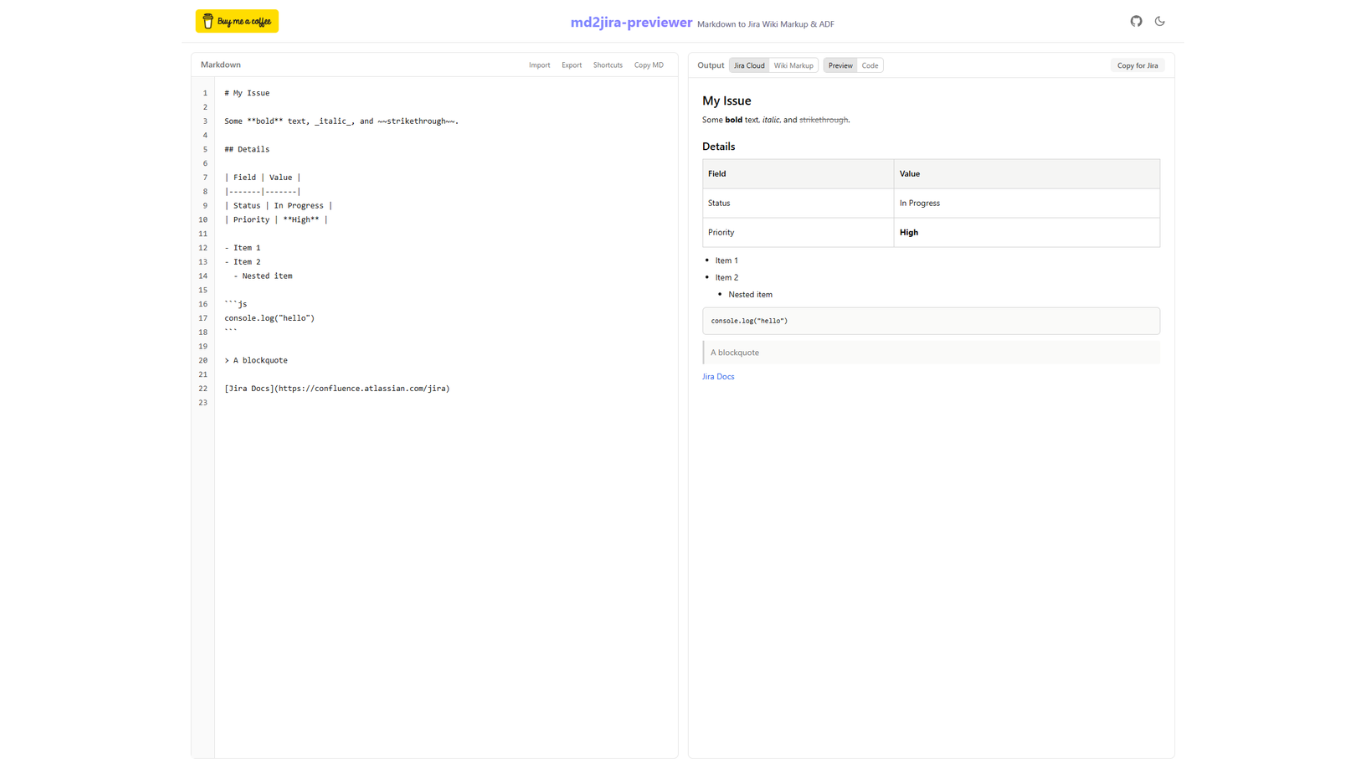
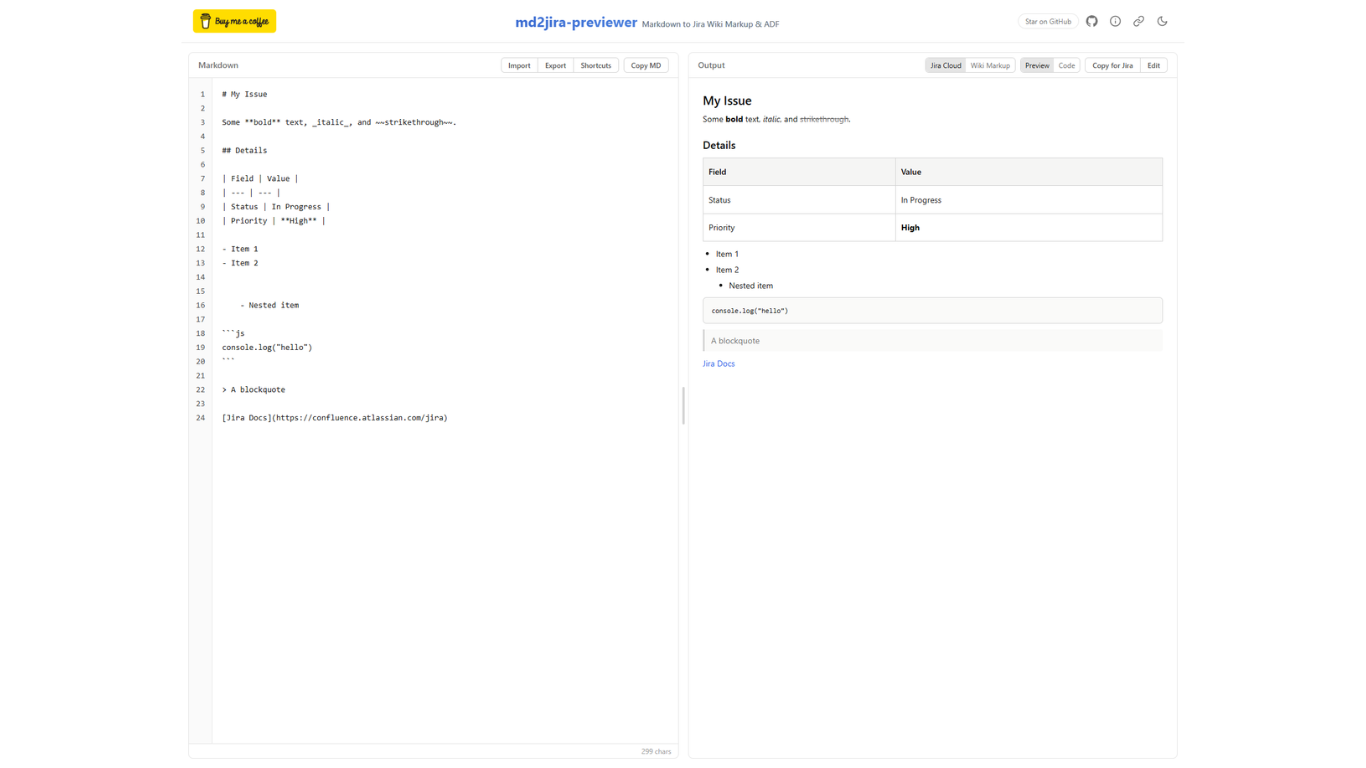
refactor(web): move share state to Header, clean up JiraOutputHeader layout, update tests

diff --git a/apps/web/src/components/jira-output/JiraOutputHeader.tsx b/apps/web/src/components/jira-output/JiraOutputHeader.tsx
@@ -5,7 +5,7 @@ import { CopyEditGroup } from './CopyEditGroup.js'
 /** Returns the correct className for a toggle-group button. */
 function toggleBtnCls(active: boolean, side: 'left' | 'right'): string {
   const radius = side === 'left' ? 'rounded-l-md' : 'rounded-r-md'
-  const base = `flex-1 whitespace-nowrap ${radius} px-2 py-1 transition-colors @[460px]:flex-none focus-visible:outline-2 focus-visible:outline-offset-1 focus-visible:outline-blue-500`
+  const base = `whitespace-nowrap ${radius} px-2 py-1 transition-colors focus-visible:outline-2 focus-visible:outline-offset-1 focus-visible:outline-blue-500`
   return active
     ? `${base} bg-neutral-200 text-neutral-900 dark:bg-neutral-700 dark:text-neutral-100`
     : `${base} text-neutral-500 hover:text-neutral-700 dark:text-neutral-400 dark:hover:text-neutral-200`
@@ -44,88 +44,86 @@ export const JiraOutputHeader = memo(function JiraOutputHeader({
   onToggleEdit,
 }: JiraOutputHeaderProps) {
   return (
-    <div className="grid grid-cols-[1fr_auto] items-center gap-2 border-b border-neutral-200 px-3 py-2 @[460px]:flex @[460px]:flex-row @[460px]:justify-between @[460px]:px-4 dark:border-neutral-800">
-      <div className="flex flex-col gap-2 @[460px]:flex-row @[460px]:items-center @[460px]:gap-2">
-        <span className="flex items-center gap-1.5 text-sm font-medium text-neutral-500 dark:text-neutral-400">
-          Output
-          {isPending && (
-            <span
-              className="inline-block h-3 w-3 animate-spin rounded-full border-2 border-neutral-300 border-t-neutral-600 dark:border-neutral-600 dark:border-t-neutral-300"
-              aria-hidden="true"
-            />
-          )}
-          {/* Visually hidden live region — announces conversion status to screen readers
-              without polluting the visible label. role="status" implies aria-live="polite". */}
-          <span role="status" aria-live="polite" className="sr-only">
-            {isPending ? 'Converting…' : ''}
-          </span>
+    <div className="flex flex-col gap-1.5 border-b border-neutral-200 px-3 py-2 dark:border-neutral-800 @[540px]:flex-row @[540px]:items-center @[540px]:justify-between @[540px]:gap-2 @[540px]:px-4">
+      {/* Label */}
+      <span className="shrink-0 flex items-center gap-1.5 text-sm font-medium text-neutral-500 dark:text-neutral-400">
+        Output
+        {isPending && (
+          <span
+            className="inline-block h-3 w-3 animate-spin rounded-full border-2 border-neutral-300 border-t-neutral-600 dark:border-neutral-600 dark:border-t-neutral-300"
+            aria-hidden="true"
+          />
+        )}
+        <span role="status" aria-live="polite" className="sr-only">
+          {isPending ? 'Converting…' : ''}
         </span>
-        <div className="flex items-center gap-2">
+      </span>
+      {/* Actions — wrap on narrow, single row on wide */}
+      <div className="flex flex-wrap items-center justify-end gap-2">
+        <div
+          role="radiogroup"
+          aria-label="Output format"
+          className="flex w-fit rounded-md border border-neutral-300 text-xs dark:border-neutral-700"
+        >
+          <button
+            type="button"
+            onClick={() => onFormatChange('adf')}
+            role="radio"
+            aria-checked={format === 'adf'}
+            tabIndex={format === 'adf' ? 0 : -1}
+            className={toggleBtnCls(format === 'adf', 'left')}
+          >
+            Jira Cloud
+          </button>
+          <button
+            type="button"
+            onClick={() => onFormatChange('wiki')}
+            role="radio"
+            aria-checked={format === 'wiki'}
+            tabIndex={format === 'wiki' ? 0 : -1}
+            className={toggleBtnCls(format === 'wiki', 'right')}
+          >
+            Wiki Markup
+          </button>
+        </div>
+        {format === 'adf' && (
           <div
             role="radiogroup"
-            aria-label="Output format"
-            className="flex flex-1 rounded-md border border-neutral-300 text-xs @[460px]:flex-none dark:border-neutral-700"
+            aria-label="View mode"
+            className="flex w-fit rounded-md border border-neutral-300 text-xs dark:border-neutral-700"
           >
             <button
               type="button"
-              onClick={() => onFormatChange('adf')}
+              onClick={() => onViewModeChange('preview')}
               role="radio"
-              aria-checked={format === 'adf'}
-              tabIndex={format === 'adf' ? 0 : -1}
-              className={toggleBtnCls(format === 'adf', 'left')}
+              aria-checked={viewMode === 'preview'}
+              tabIndex={viewMode === 'preview' ? 0 : -1}
+              className={toggleBtnCls(viewMode === 'preview', 'left')}
             >
-              Jira Cloud
+              Preview
             </button>
             <button
               type="button"
-              onClick={() => onFormatChange('wiki')}
+              onClick={() => onViewModeChange('code')}
               role="radio"
-              aria-checked={format === 'wiki'}
-              tabIndex={format === 'wiki' ? 0 : -1}
-              className={toggleBtnCls(format === 'wiki', 'right')}
+              aria-checked={viewMode === 'code'}
+              tabIndex={viewMode === 'code' ? 0 : -1}
+              className={toggleBtnCls(viewMode === 'code', 'right')}
             >
-              Wiki Markup
+              Code
             </button>
           </div>
-          {format === 'adf' && (
-            <div
-              role="radiogroup"
-              aria-label="View mode"
-              className="flex flex-1 rounded-md border border-neutral-300 text-xs @[460px]:flex-none dark:border-neutral-700"
-            >
-              <button
-                type="button"
-                onClick={() => onViewModeChange('preview')}
-                role="radio"
-                aria-checked={viewMode === 'preview'}
-                tabIndex={viewMode === 'preview' ? 0 : -1}
-                className={toggleBtnCls(viewMode === 'preview', 'left')}
-              >
-                Preview
-              </button>
-              <button
-                type="button"
-                onClick={() => onViewModeChange('code')}
-                role="radio"
-                aria-checked={viewMode === 'code'}
-                tabIndex={viewMode === 'code' ? 0 : -1}
-                className={toggleBtnCls(viewMode === 'code', 'right')}
-              >
-                Code
-              </button>
-            </div>
-          )}
-        </div>
+        )}
+        <CopyEditGroup
+          copied={copied}
+          editMode={editMode}
+          canEdit={canEdit}
+          format={format}
+          onCopy={onCopy}
+          onToggleEdit={onToggleEdit}
+          className="w-fit"
+        />
       </div>
-      {/* Single CopyEditGroup — grid col 2 on mobile, flex end on desktop */}
-      <CopyEditGroup
-        copied={copied}
-        editMode={editMode}
-        canEdit={canEdit}
-        format={format}
-        onCopy={onCopy}
-        onToggleEdit={onToggleEdit}
-      />
     </div>
   )
 })

diff --git a/apps/web/tests/components.test.tsx b/apps/web/tests/components.test.tsx
@@ -302,23 +302,15 @@ describe('Copy link button', () => {
   // top-level beforeAll matchMedia stub and break subsequent describe blocks.
   // The top-level afterAll handles global cleanup at the end of the file.
 
-  it('shows Copy link button when deep-link is active and content exists', async () => {
-    const clipboardSpy = vi.fn().mockResolvedValue(undefined)
-    Object.defineProperty(navigator, 'clipboard', {
-      writable: true,
-      configurable: true,
-      value: { writeText: clipboardSpy },
-    })
-
+  it('shows Share button in header when deep-link is active and content exists', async () => {
     render(<App />)
     const textarea = screen.getByPlaceholderText('Paste your Markdown here...')
     fireEvent.change(textarea, { target: { value: '# Hello' } })
 
-    const copyLinkBtns = screen.queryAllByRole('button', { name: /copy shareable link/i })
-    expect(copyLinkBtns.length).toBeGreaterThanOrEqual(1)
+    expect(screen.getByRole('button', { name: /share document link/i })).toBeInTheDocument()
   })
 
-  it('calls clipboard.writeText with current URL when Copy link is clicked', async () => {
+  it('opens share modal and copies URL to clipboard when Share is clicked', async () => {
     const clipboardSpy = vi.fn().mockResolvedValue(undefined)
     Object.defineProperty(navigator, 'clipboard', {
       writable: true,
@@ -330,30 +322,11 @@ describe('Copy link button', () => {
     const textarea = screen.getByPlaceholderText('Paste your Markdown here...')
     fireEvent.change(textarea, { target: { value: '# Hello' } })
 
-    const btn = screen.getAllByRole('button', { name: /copy shareable link/i })[0]!
-    fireEvent.click(btn)
+    fireEvent.click(screen.getByRole('button', { name: /share document link/i }))
+    fireEvent.click(await screen.findByRole('button', { name: /copy link to share/i }))
 
     await waitFor(() => {
       expect(clipboardSpy).toHaveBeenCalledWith('http://localhost/?md=SGVsbG8')
-    })
-  })
-
-  it('shows an error toast when clipboard.writeText rejects', async () => {
-    Object.defineProperty(navigator, 'clipboard', {
-      writable: true,
-      configurable: true,
-      value: { writeText: vi.fn().mockRejectedValue(new Error('denied')) },
-    })
-
-    render(<App />)
-    const textarea = screen.getByPlaceholderText('Paste your Markdown here...')
-    fireEvent.change(textarea, { target: { value: '# Hello' } })
-
-    const btn = screen.getAllByRole('button', { name: /copy shareable link/i })[0]!
-    fireEvent.click(btn)
-
-    await waitFor(() => {
-      expect(screen.getByText(/could not copy link/i)).toBeInTheDocument()
     })
   })
 })

diff --git a/apps/web/src/App.tsx b/apps/web/src/App.tsx
@@ -140,7 +140,12 @@ export function App() {
         >
           Skip to main content
         </a>
-        <Header theme={theme} onToggleTheme={toggleTheme} />
+        <Header
+          theme={theme}
+          onToggleTheme={toggleTheme}
+          isDeepLinkActive={isDeepLinkActive}
+          hasContent={markdown.length > 0}
+        />
         {isOffline && (
           <div
             role="status"
@@ -279,11 +284,7 @@ export function App() {
             <ErrorBoundary
               onError={(err, info) => reportError(err, info.componentStack ?? undefined)}
             >
-              <MarkdownInput
-                value={markdown}
-                onChange={setMarkdown}
-                isDeepLinkActive={isDeepLinkActive}
-              />
+              <MarkdownInput value={markdown} onChange={setMarkdown} />
             </ErrorBoundary>
           </section>
           {/* Resize handle — desktop only. Draggable; keyboard: ArrowLeft/Right adjust by 1 %. */}
